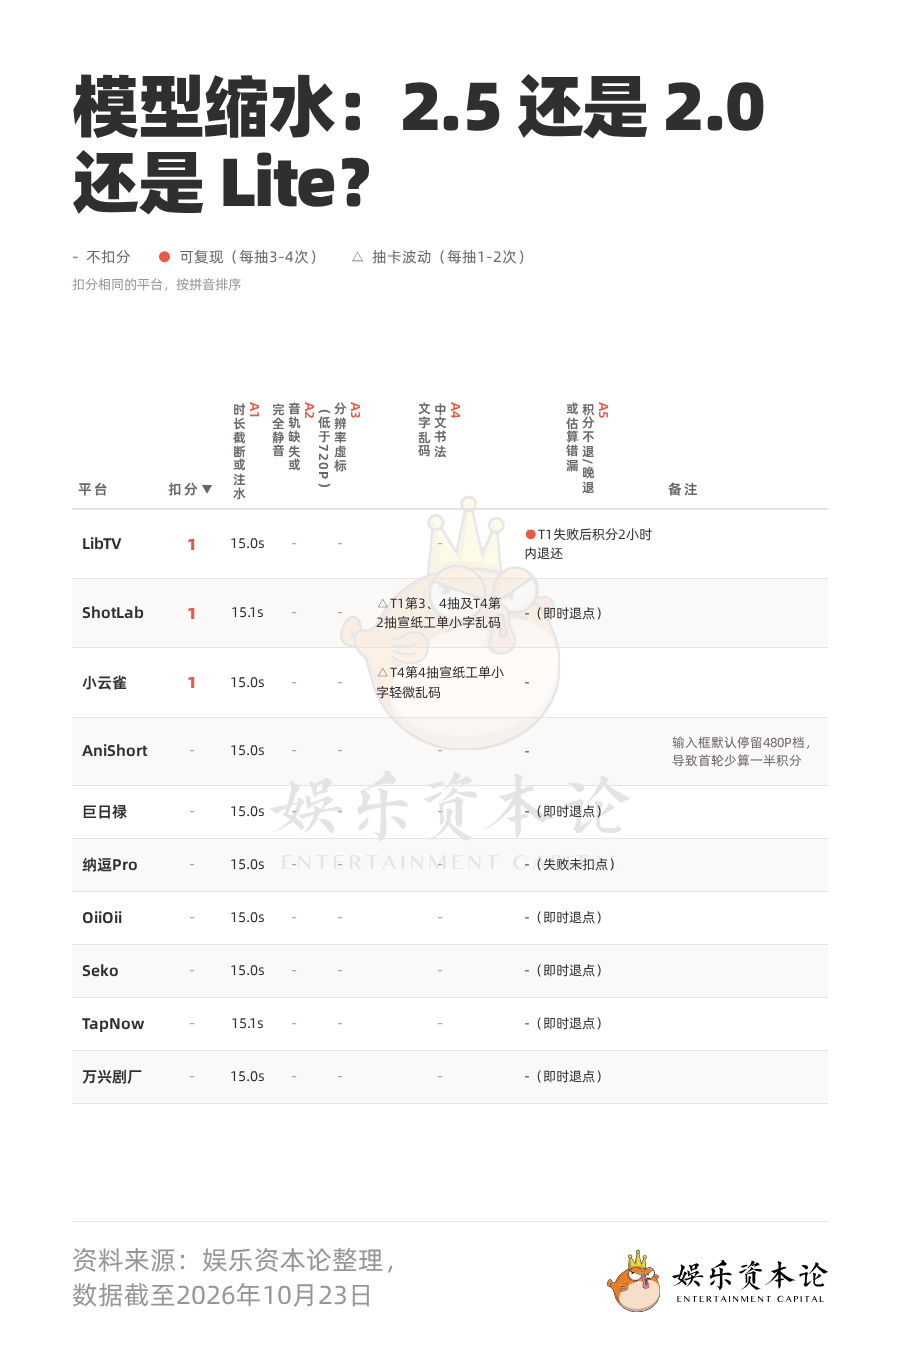
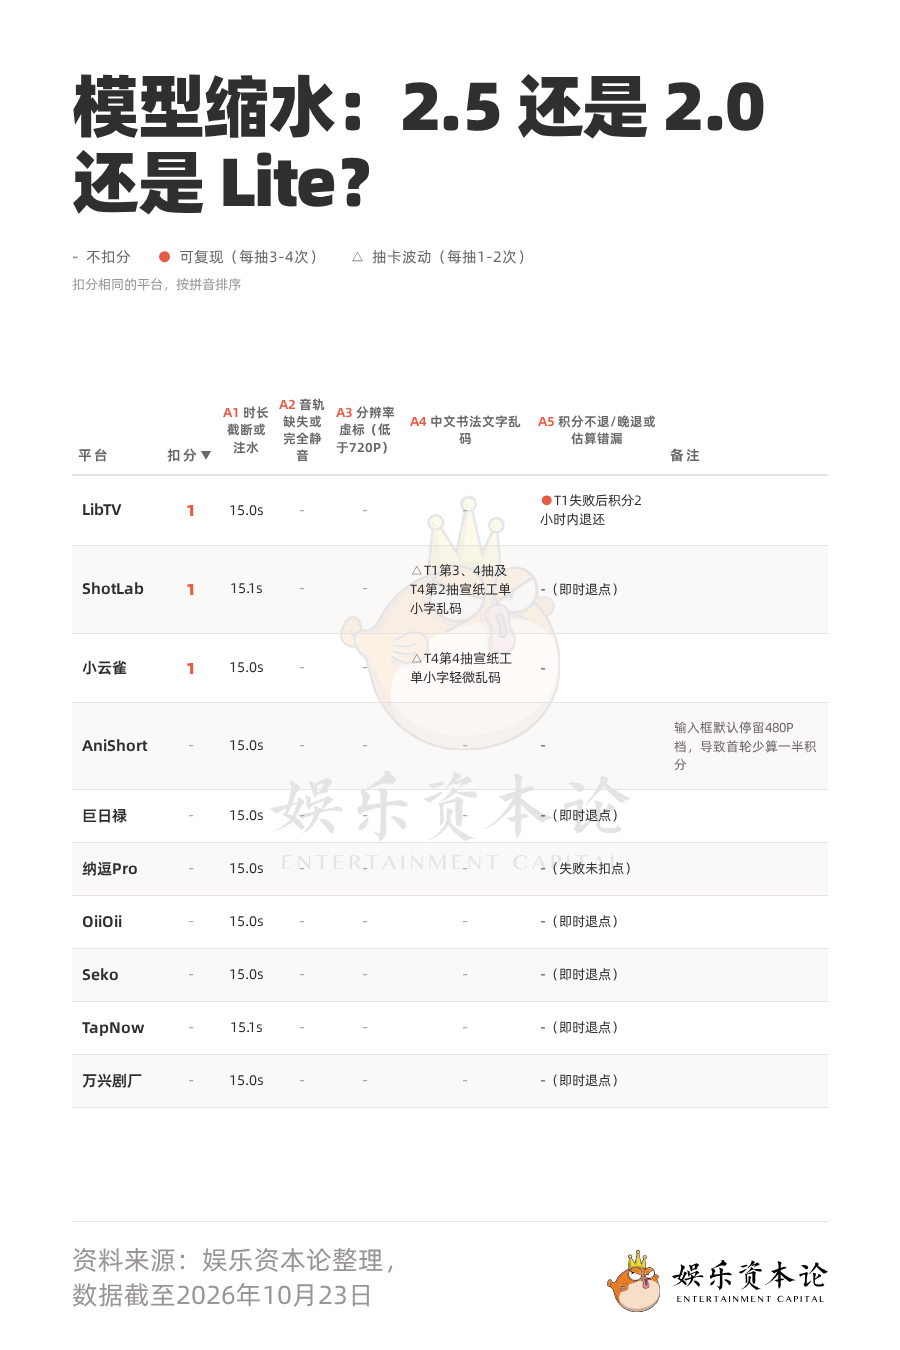
1026-drama-sankey img4修订: 应用户要求表头由竖排改为横排(A1-A5五列, 逐字不变); .vh竖排样式→.ah横排(word-break:break-all窄列安全换行), 列宽重排92/54/56/56/70/130/134/164; 表体数据/图例/排序/脚注零改动; 重渲rc=0 yzCheck compliant+无溢出+表头8格全horizontal-tb+VLM表头3x逐字一致+表体10行逐字一致(AniShort备注4x复核'停留'无误)+无tofu; validate.py目录级40/40; CSV更新口径行备注+追加修订溯源行→147行; READM

diff --git a/1026-drama-sankey/deliverables-v1.0/img4-styled.html b/1026-drama-sankey/deliverables-v1.0/img4-styled.html
@@ -34,8 +34,8 @@
 .dtable th{font-weight:700;color:var(--s)}
 .hz{font-size:14px;letter-spacing:2px;line-height:1.3;padding:10px 6px;border-bottom:2px solid var(--l);vertical-align:bottom}
 .hz-c{text-align:center;padding:10px 2px}
-.vh{writing-mode:vertical-rl;text-orientation:mixed;font-size:13px;letter-spacing:1px;line-height:1.25;padding:10px 0 8px;border-bottom:2px solid var(--l);vertical-align:middle;text-align:left}
-.vh b{font-weight:700;color:var(--ad);letter-spacing:0}
+.ah{font-size:13px;line-height:1.32;padding:8px 4px 10px;border-bottom:2px solid var(--l);vertical-align:middle;text-align:center;word-break:break-all;overflow-wrap:break-word}
+.ah b{font-weight:700;color:var(--ad)}
 .dtable td{padding:15px 10px;border-bottom:1px solid var(--l);vertical-align:middle;line-height:1.42}
 .pname{font-size:15.5px;font-weight:700;color:var(--t)}
 .ded{text-align:center;font-size:16px;font-weight:900;color:var(--ad);padding:11px 4px}
@@ -51,7 +51,7 @@
 .chart-source{max-width:470px}
 /* 紧凑模式：内容超出画布时由自检脚本启用 */
 .compact .dtable td{padding:8px 8px}
-.compact .dtable .vh{font-size:12px;padding:8px 0 6px}
+.compact .dtable .ah{font-size:12px;padding:6px 3px 8px}
 .compact .cell-a4,.compact .cell-a5{font-size:12.5px;line-height:1.36}
 .compact .note{font-size:12px}
 .compact .pname{font-size:14.5px}
@@ -72,16 +72,16 @@
   <div class="t-wrap">
     <table class="dtable">
       <colgroup>
-        <col style="width:92px"><col style="width:56px"><col style="width:54px"><col style="width:40px"><col style="width:52px"><col style="width:148px"><col style="width:148px"><col style="width:166px">
+        <col style="width:92px"><col style="width:54px"><col style="width:56px"><col style="width:56px"><col style="width:70px"><col style="width:130px"><col style="width:134px"><col style="width:164px">
       </colgroup>
       <thead><tr>
         <th class="hz">平台</th>
         <th class="hz hz-c">扣分▼</th>
-        <th class="vh"><b>A1</b><br>时长截断或注水</th>
-        <th class="vh"><b>A2</b><br>音轨缺失或<br>完全静音</th>
-        <th class="vh"><b>A3</b><br>分辨率虚标<br>（低于720P）</th>
-        <th class="vh"><b>A4</b><br>中文书法<br>文字乱码</th>
-        <th class="vh"><b>A5</b><br>积分不退/晚退<br>或估算错漏</th>
+        <th class="ah"><b>A1</b> 时长截断或注水</th>
+        <th class="ah"><b>A2</b> 音轨缺失或完全静音</th>
+        <th class="ah"><b>A3</b> 分辨率虚标（低于720P）</th>
+        <th class="ah"><b>A4</b> 中文书法文字乱码</th>
+        <th class="ah"><b>A5</b> 积分不退/晚退或估算错漏</th>
         <th class="hz">备注</th>
       </tr></thead>
       <tbody>

diff --git a/1026-drama-sankey/deliverables-v1.0/README.md b/1026-drama-sankey/deliverables-v1.0/README.md
@@ -41,12 +41,13 @@
 
 将《模型缩水》平台扣分表做成 8 列对比表（`img4-styled.png`，900×1350，应用户要求**逐字引用、零发挥**）：
 
-- **结构**：表头八列 **平台 | 扣分▼ | A1–A5 | 备注**，其中 A1–A5 五列为**竖排表头**（从上到下阅读，完整列名：A1 时长截断或注水 / A2 音轨缺失或完全静音 / A3 分辨率虚标（低于720P）/ A4 中文书法文字乱码 / A5 积分不退/晚退或估算错漏）；
+- **结构**：表头八列 **平台 | 扣分▼ | A1–A5 | 备注**，其中 A1–A5 五列为**横排表头**（窄列内自动换行、居中，完整列名：A1 时长截断或注水 / A2 音轨缺失或完全静音 / A3 分辨率虚标（低于720P）/ A4 中文书法文字乱码 / A5 积分不退/晚退或估算错漏）；
 - **排序**：扣分相同按拼音排序——扣分1组 LibTV&lt;ShotLab&lt;小云雀（L&lt;S&lt;X），不扣分组 AniShort&lt;巨日禄&lt;纳逗Pro&lt;OiiOii&lt;Seko&lt;TapNow&lt;万兴剧厂（A&lt;J&lt;N&lt;O&lt;S&lt;T&lt;W），与用户输入行序一致，组间以加重分隔线标识；
 - **图例与说明**（逐字）：“- 不扣分 ● 可复现（每抽3-4次）△ 抽卡波动（每抽1-2次）” + “扣分相同的平台，按拼音排序”；
 - **内容口径**：全部单元格逐字引用（含 ●/△/（）/、 等符号、15.0s/15.1s、480P、备注全文）；
 - 页脚（逐字）：“资料来源：娱乐资本论整理，数据截至2026年10月23日”；
-- **技术要点**：A1–A5 竖排表头 + 长列名在 756px 宽度下以 `table-layout:fixed` + colgroup 定宽实现；表格自然高度在内容区垂直居中（不用 height:100% 拉伸）。
+- **技术要点**：A1–A5 长列名在 756px 宽度下以 `table-layout:fixed` + colgroup 定宽（92/54/56/56/70/130/134/164）实现横排换行；表格自然高度在内容区垂直居中（不用 height:100% 拉伸）。
+- **修订记录**（2026-10-27）：应用户要求，A1–A5 表头由竖排改为横排（列宽同步重排），表头文字逐字不变；表体数据/图例/排序/脚注零改动；重跑全套验证（yzCheck compliant、无溢出、VLM 表头8格+表体10行逐字一致、validate.py 40/40）。
 
 ## 二、目录结构
 
@@ -58,9 +59,9 @@ deliverables-v1.0/
 ├── img2-styled.png         # 成品 900×1350
 ├── img3-styled.html        # A 版源文件（模板 + 表格流程布局 + 溢出自检脚本）
 ├── img3-styled.png         # 成品 900×1080
-├── img4-styled.html        # A 版源文件（模板 + 8列fixed表格 + 竖排表头 + 自检脚本）
-├── img4-styled.png         # 成品 900×1350
-├── source-data.csv         # 145 行级溯源（img1 116 + img2 13 + img3 5 + img4 11 行）
+├── img4-styled.html        # A 版源文件（模板 + 8列fixed表格 + 横排表头（修订后） + 自检脚本）
+├── img4-styled.png         # 成品 900×1350（表头横排修订版）
+├── source-data.csv         # 147 行级溯源（img1 116 + img2 13 + img3 5 + img4 12 行，含修订记录行）
 ├── browser-validation.json     # img1 render.mjs yzCheck 报告（compliant）
 ├── browser-validation-img2.json # img2 render.mjs yzCheck 报告（compliant）
 ├── browser-validation-img3.json # img3 render.mjs yzCheck 报告（compliant）
@@ -105,15 +106,15 @@ deliverables-v1.0/
 5. **剧情逐字校验**：VLM 3x 放大转写四段简介后与原文程序化逐字比对——**四段完全一致**（首轮全图转写出现的 6 处字符差异经放大复核确认均为 VLM 对 16px 小字的误读，渲染本身无误）；
 6. `validate.py --mode a`（目录级，覆盖 img1+img2+img3）→ **compliant，31/31**（敏感信息扫描为零）。
 
-### img4（模型缩水扣分表）
+### img4（模型缩水扣分表 · 2026-10-27 表头横排修订）
 
-1. `render.mjs a` → rc=0，`yzCheck()` 返回 **compliant**（browser-validation-img4.json，errors=[]）；
-2. **布局一致性接轴**：因含 writing-mode 竖排表头，放弃 `table-layout:auto`（Chromium 下计算布局与实际绘制分裂：A3 表头绘制丢失、行高错位，导致坐标验证全部偏移）→ 改用 **`table-layout:fixed` + colgroup 定宽 + 表格自然高度垂直居中**后，DOM 量测与像素扫描完全一致（平台列10文字带逐一落入10行DOM矩形）；
-3. PIL 验证：900×1350 RGB，色彩数 3334，着墨率 8.4%；
-4. VLM 整图版式质检 **7/7 全过**（标题/图例/排序说明/8表头/10行序/页脚/无tofu、垂直居中留白均衡）；
-5. **逐字校验**：表头竖排 5 列全文 + A4 长文本×2 + A5 列全 10 格 + AniShort 备注 + 巨日禄/万兴剧厂平台名 + 扣分首尾 + A1 四格（含两个 15.1s）——17 格 + 5 表头 **全部与用户输入逐字一致、零差异**（含 A3 全角括号无 tofu）；
-6. 排序核对：两组拼音序均与用户行序一致；
-7. `validate.py --mode a`（目录级，覆盖 img1–img4）→ **compliant，40/40**（敏感信息扫描为零）。
+1. `render.mjs a`（修订后重渲）→ rc=0，`yzCheck()` 返回 **compliant**（browser-validation-img4.json，errors=[]）；
+2. **布局一致性接轴（初版关键排障）**：因初版含 writing-mode 竖排表头，放弃 `table-layout:auto`（Chromium 下计算布局与实际绘制分裂：A3 表头绘制丢失、行高错位，导致坐标验证全部偏移）→ 改用 **`table-layout:fixed` + colgroup 定宽 + 表格自然高度垂直居中**后，DOM 量测与像素扫描完全一致（平台列10文字带逐一落入10行DOM矩形）；修订版沿用 fixed 布局，仅将 `.vh` 竖排样式替换为 `.ah` 横排样式（word-break:break-all 窄列安全换行）并重排列宽为 92/54/56/56/70/130/134/164；
+3. 修订版自检量测：`__yzTable` 无溢出（scrollH=containerH=1350）、theadH=88px、表头 8 格 computed `writing-mode` 全部为 `horizontal-tb`（无竖排残留）、单元格无横向溢出；
+4. PIL 验证（修订版）：900×1350 RGB，色彩数 3332，着墨率 7.4%；
+5. **逐字校验（修订版）**：VLM 3x 放大转写表头 8 格——平台/扣分▼/A1 时长截断或注水/A2 音轨缺失或完全静音/A3 分辨率虚标（低于720P）/A4 中文书法文字乱码/A5 积分不退/晚退或估算错漏/备注，**逐字与用户输入一致**，且确认排列方式为"每字横排、多行堆叠"；表体 10 行逐行转写数据全部一致（AniShort 备注初轮 2x 转写"保留"经 4x 复核确认为"停留"无误读，渲染正确）；无 tofu；
+6. 排序核对：两组拼音序均与用户行序一致（1分组 L&lt;S&lt;X；不扣分组 A&lt;J&lt;N&lt;O&lt;S&lt;T&lt;W）；
+7. `validate.py --mode a`（目录级，覆盖 img1–img4，修订后复跑）→ **compliant，40/40**（敏感信息扫描为零）；source-data.csv 追加修订溯源行 → 147 行。
 
 ## 五、版本规则
 

diff --git a/1026-drama-sankey/worklog.md b/1026-drama-sankey/worklog.md
@@ -119,3 +119,26 @@ v1.0（img1+img2+img3）完成。
 
 ## 状态
 v1.0（img1+img2+img3+img4）完成。
+
+---
+## img4 修订 · 表头竖排→横排（2026-10-27）
+
+### 1. 任务
+用户 IM 指示：表格标题栏（第一列起）竖排文字改横排。落地为 A1–A5 五列表头全部由 writing-mode 竖排改为横排（窄列内自动换行、居中），表头文字逐字不变，表体数据/图例/排序/脚注零改动。
+
+### 2. 修改
+- `.vh`（vertical-rl）→ `.ah`（horizontal-tb，13px，word-break:break-all 安全换行，居中）；`<b>A1</b><br>列名` → `<b>A1</b> 列名`（保留码前缀粗体橙）。
+- colgroup 重排：92/54/56/56/70/130/134/164（原 92/56/54/40/52/148/148/166），总和 756 不变；compact 样式同步替换。
+- 仅动表头与列宽，模板区与 yzCheck 脚本零改动。
+
+### 3. 验证
+- render.mjs a 重渲：rc=0，yzCheck compliant。
+- 自检量测（/home/z/my-project/scripts/img4-revision-check.cjs）：无溢出（scrollH=1350=containerH）、theadH 88px、表头 8 格 computed writing-mode 全为 horizontal-tb、无单元格横向溢出；行高 70/88/69/86/53×6，gapToFooter 114px。
+- PIL：900×1350、3332 色、着墨 7.4%。
+- VLM 三轮：表头 3x 转写 8 格逐字一致 + 确认"每字横排多行堆叠"；表体 2x 逐行转写 10 行数据一致；AniShort 备注 2x 误读"保留"经 4x 复核为"停留"无误（渲染正确）。无 tofu。
+- source-data.csv：img4,4,11 备注更新（竖排→横排）+ 追加 img4,4,12 修订溯源行 → 147 行。
+- validate.py 目录级复跑：compliant 40/40。
+
+### 4. 交付
+- 更新 img4-styled.html/png、browser-validation-img4.json、source-data.csv、validation.json、README。
+- 单次 commit + push（先 fetch 确认远端无新提交）。
